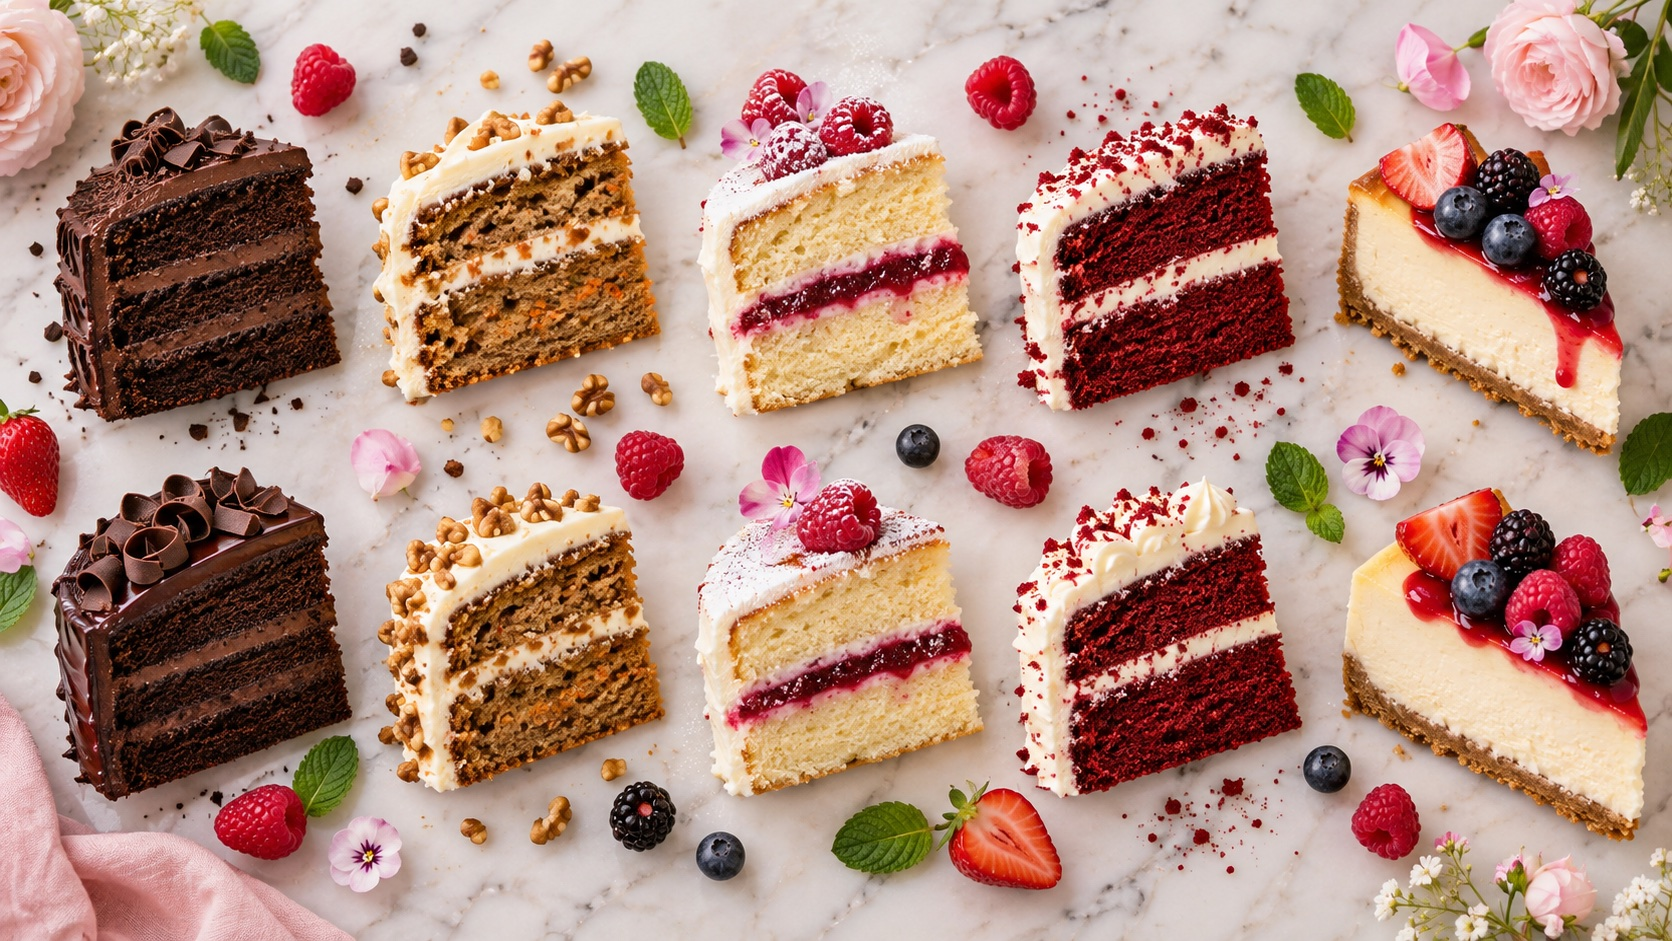
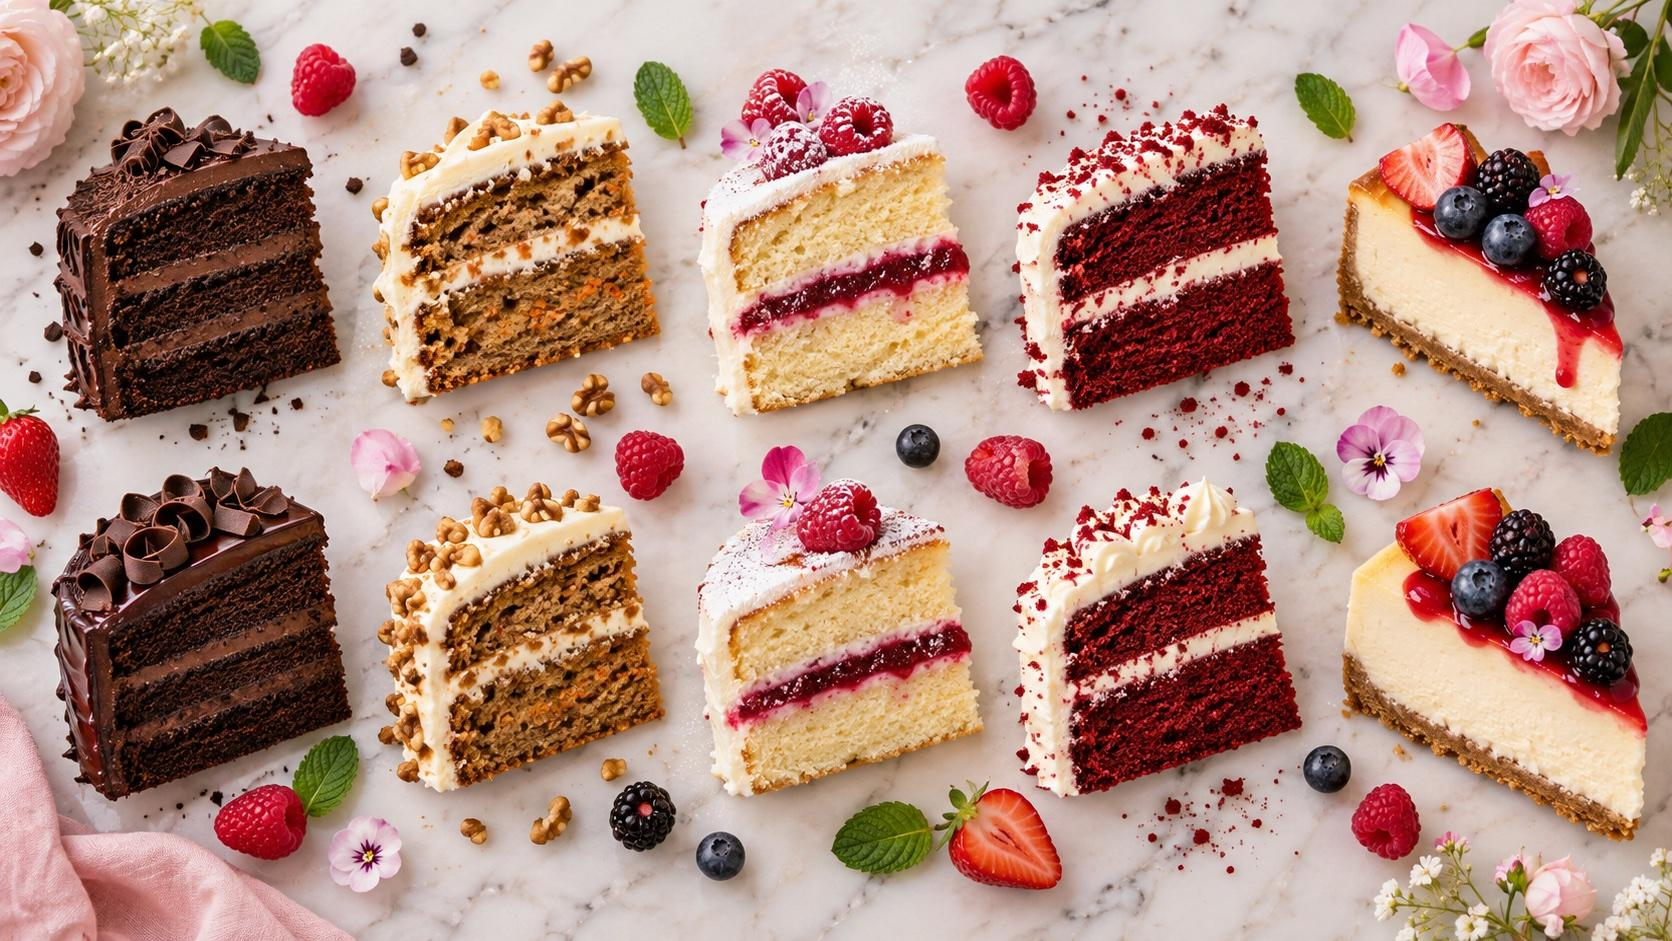
Vekst-tiltak: tillitsboks, kilde-til-konvertering-sporing, komprimerte bilder
- Alle 10 bakgrunnsbilder komprimert (JPEG kvalitet 75, optimize=True):
  4.5 MB -> 2.2 MB totalt (50% mindre), ingen synlig kvalitetsforskjell.
  Raskere lasting, spesielt pa mobil - google bruker ogsa sidehastighet
  som rangeringsfaktor.
- Ny tillitsboks ("★★★★★ X anmeldelser fra fornoyde kunder", ekte tall
  fra /api/reviews) pa forsiden (under hero-knappene) og ovoerst pa
  book.html (for selve skjemaet starter - IKKE en lenke inn i stegene,
  det oker frafall ifolge forskning pa checkout-friksjon).
- Kilde-til-konvertering: en forste-gangs-kilde (Instagram/Facebook/
  Google/direkte) huskes na i en cookie (kf_kilde, 30 dager) og lagres
  pa selve bestillingen/pameldingen nar den fullfores - bookings,
  course_registrations, tastings, christmas_orders, course_interests
  fikk alle en ny kilde-kolonne. Nytt GET /api/admin/konvertering-kilde
  + egen seksjon i Statistikk-panelet, sa Cecilie kan se hvilken kilde
  som FAKTISK gir kunder, ikke bare besok.

diff --git a/server.js b/server.js
@@ -55,6 +55,13 @@ function klassifiserEnhet(userAgent) {
   return /Mobi|Android|iPhone|iPad|iPod/i.test(userAgent || '') ? 'Mobil' : 'PC';
 }
 
+// Enkel cookie-leser - samme mønster som harIkkeSporKapsel, ingen ny avhengighet.
+function lesCookie(req, navn) {
+  const funnet = (req.headers.cookie || '').split(';').map(c => c.trim()).find(c => c.startsWith(navn + '='));
+  return funnet ? decodeURIComponent(funnet.slice(navn.length + 1)) : null;
+}
+const TRETTI_DAGER = 30 * 24 * 60 * 60;
+
 app.use((req, res, next) => {
   // Egen lenke for aa slaa det av paa en ny enhet, f.eks. mobilen
   if (req.query.ikkespor === '1') settIkkeSpor(res);
@@ -67,10 +74,17 @@ app.use((req, res, next) => {
        ON DUPLICATE KEY UPDATE count = count + 1`,
       [page, today]
     ).catch(() => {});
+    const kilde = klassifiserKilde(req.headers.referer);
     pool.query(
       `INSERT INTO page_events (page, kilde, enhet) VALUES (?, ?, ?)`,
-      [page, klassifiserKilde(req.headers.referer), klassifiserEnhet(req.headers['user-agent'])]
+      [page, kilde, klassifiserEnhet(req.headers['user-agent'])]
     ).catch(() => {});
+    // Forste-gangs-kilde huskes i en cookie sa den kan kobles til en eventuell
+    // bestilling/pamelding senere i besoket - IKKE overskriv hvis allerede satt.
+    if (!lesCookie(req, 'kf_kilde')) {
+      res.setHeader('Set-Cookie',
+        `kf_kilde=${encodeURIComponent(kilde)}; Max-Age=${TRETTI_DAGER}; Path=/; SameSite=Lax`);
+    }
   }
   next();
 });
@@ -314,14 +328,15 @@ app.post('/api/bookings', async (req, res) => {
       `INSERT INTO bookings
         (customer_id, booking_date, occasion, occasion_custom, guest_count,
          delivery_type, delivery_address, allergens, design_level,
-         deposit_amount, total_amount)
-       VALUES (?, ?, ?, ?, ?, ?, ?, ?, ?, ?, ?)`,
+         deposit_amount, total_amount, kilde)
+       VALUES (?, ?, ?, ?, ?, ?, ?, ?, ?, ?, ?, ?)`,
       [
         customer_id, booking_date, occasion, occasion_custom || null,
         guest_count || null, delivery_type || 'henting',
         delivery_address || null,
         allergens ? JSON.stringify(allergens) : null,
-        design_level || null, deposit_amount || null, total_amount || null
+        design_level || null, deposit_amount || null, total_amount || null,
+        lesCookie(req, 'kf_kilde')
       ]
     );
     const bookingId = result.insertId;
@@ -412,8 +427,8 @@ app.post('/api/course-interests', async (req, res) => {
   if (!course_id || !full_name || !phone) return res.status(400).json({ error: 'Navn og telefon er påkrevd' });
   try {
     await pool.query(
-      `INSERT INTO course_interests (course_id, full_name, phone) VALUES (?, ?, ?)`,
-      [course_id, full_name.trim(), phone.trim()]
+      `INSERT INTO course_interests (course_id, full_name, phone, kilde) VALUES (?, ?, ?, ?)`,
+      [course_id, full_name.trim(), phone.trim(), lesCookie(req, 'kf_kilde')]
     );
 
     try {
@@ -582,8 +597,8 @@ app.post('/api/course-registrations', async (req, res) => {
     if (!course.price) return res.status(400).json({ error: 'Kurset mangler pris - kontakt Kakefrue' });
 
     const [result] = await pool.query(
-      `INSERT INTO course_registrations (course_id, full_name, phone, email) VALUES (?, ?, ?, ?)`,
-      [course_id, full_name.trim(), phone.trim(), email.trim()]
+      `INSERT INTO course_registrations (course_id, full_name, phone, email, kilde) VALUES (?, ?, ?, ?, ?)`,
+      [course_id, full_name.trim(), phone.trim(), email.trim(), lesCookie(req, 'kf_kilde')]
     );
     await pool.query(`UPDATE courses SET current_participants = current_participants + 1 WHERE id = ?`, [course_id]);
     const reg = { id: result.insertId, phone: phone.trim() };
@@ -718,8 +733,8 @@ app.post('/api/tastings', async (req, res) => {
 
   try {
     const [result] = await pool.query(
-      `INSERT INTO tastings (full_name, phone, email, preferred_date, choice_1, choice_2, choice_3) VALUES (?, ?, ?, ?, ?, ?, ?)`,
-      [full_name.trim(), phone.trim(), email.trim(), preferred_date || null, choice_1 || null, choice_2 || null, choice_3 || null]
+      `INSERT INTO tastings (full_name, phone, email, preferred_date, choice_1, choice_2, choice_3, kilde) VALUES (?, ?, ?, ?, ?, ?, ?, ?)`,
+      [full_name.trim(), phone.trim(), email.trim(), preferred_date || null, choice_1 || null, choice_2 || null, choice_3 || null, lesCookie(req, 'kf_kilde')]
     );
     const tasting = { id: result.insertId, phone: phone.trim() };
     const belop = await provesmakingPris();
@@ -905,10 +920,10 @@ app.post('/api/christmas-orders', async (req, res) => {
     const { linjer, frakt, total } = await prisBestilling(products, delivery, delivery_cost);
     const leveringsmate = ['levering', 'marked'].includes(delivery) ? delivery : 'henting';
     const [result] = await pool.query(
-      `INSERT INTO christmas_orders (full_name, phone, email, delivery, address, products, note, delivery_cost, total_kr, event_id) VALUES (?, ?, ?, ?, ?, ?, ?, ?, ?, ?)`,
+      `INSERT INTO christmas_orders (full_name, phone, email, delivery, address, products, note, delivery_cost, total_kr, event_id, kilde) VALUES (?, ?, ?, ?, ?, ?, ?, ?, ?, ?, ?)`,
       [full_name.trim(), phone.trim(), email?.trim() || null, leveringsmate,
        leveringsmate === 'marked' ? hentested : (leveringsmate === 'levering' ? address?.trim() || null : null),
-       JSON.stringify(linjer), note?.trim() || null, frakt, total, eventId]
+       JSON.stringify(linjer), note?.trim() || null, frakt, total, eventId, lesCookie(req, 'kf_kilde')]
     );
     const o = { id: result.insertId, phone: phone.trim() };
 
@@ -1472,6 +1487,33 @@ app.get('/api/admin/pageviews/detaljer', requireAdmin, async (req, res) => {
     const [[{ total }]] = await pool.query(`SELECT COUNT(*) as total FROM page_events`);
     const [[{ forste }]] = await pool.query(`SELECT MIN(visited_at) as forste FROM page_events`);
     res.json({ total, forste, kilde, enhet, timer });
+  } catch (err) {
+    console.error(err);
+    res.status(500).json({ error: 'Serverfeil' });
+  }
+});
+
+// GET /api/admin/konvertering-kilde - hvor mange bestillinger/pameldinger/interesser
+// hver kilde faktisk ga (ikke bare hvor mange besok), pa tvers av alle fem typer.
+app.get('/api/admin/konvertering-kilde', requireAdmin, async (req, res) => {
+  try {
+    const tabeller = [
+      { tabell: 'bookings', navn: 'Kakebestillinger' },
+      { tabell: 'course_registrations', navn: 'Kurspåmeldinger' },
+      { tabell: 'tastings', navn: 'Prøvesmakinger' },
+      { tabell: 'christmas_orders', navn: 'Julebestillinger' },
+      { tabell: 'course_interests', navn: 'Kurs-interesser' }
+    ];
+    const perType = {};
+    const totalPerKilde = {};
+    for (const { tabell, navn } of tabeller) {
+      const [rows] = await pool.query(
+        `SELECT COALESCE(kilde, 'Ukjent (før sporing ble bygget)') as kilde, COUNT(*) as count FROM ${tabell} GROUP BY kilde ORDER BY count DESC`
+      );
+      perType[navn] = rows;
+      rows.forEach(r => { totalPerKilde[r.kilde] = (totalPerKilde[r.kilde] || 0) + parseInt(r.count); });
+    }
+    res.json({ perType, totalPerKilde });
   } catch (err) {
     console.error(err);
     res.status(500).json({ error: 'Serverfeil' });

diff --git a/public/js/admin.js b/public/js/admin.js
@@ -1163,6 +1163,12 @@ async function loadPageViews() {
         </div>
       </div>
 
+      <div style="background:var(--white);border-radius:var(--radius);box-shadow:var(--shadow);padding:28px;margin-bottom:24px;">
+        <h3 style="margin-bottom:4px;">Kilde → faktiske bestillinger</h3>
+        <p style="font-size:0.8rem;opacity:0.55;margin-bottom:20px;">Ikke bare hvor mange som besøker fra hver kilde, men hvor mange som faktisk bestiller/melder seg på/interesserer seg - på tvers av kakebestilling, kurs, prøvesmaking og julebestilling.</p>
+        <div id="chartKonvertering"></div>
+      </div>
+
       <div style="background:var(--white);border-radius:var(--radius);box-shadow:var(--shadow);padding:24px 28px;">
         <h3 style="margin-bottom:14px;">Dine egne besøk</h3>
         <p id="sporStatus" style="font-size:0.9rem;margin-bottom:16px;"></p>
@@ -1196,6 +1202,7 @@ async function loadPageViews() {
     }
     lastDagvisning();
     lastDetaljertStatistikk();
+    lastKonverteringKilde();
   } catch (e) { console.error(e); }
 }
 
@@ -1228,6 +1235,14 @@ async function lastDagvisning() {
     }
     el.style.opacity = '1';
   } catch (e) { el.innerHTML = '<p style="opacity:0.5;">Kunne ikke laste.</p>'; }
+}
+
+async function lastKonverteringKilde() {
+  try {
+    const d = await api('/api/admin/konvertering-kilde');
+    const total = Object.values(d.totalPerKilde).reduce((a, b) => a + b, 0) || 1;
+    renderPillList('chartKonvertering', d.totalPerKilde, total);
+  } catch (e) { console.error(e); }
 }
 
 async function lastDetaljertStatistikk() {

diff --git a/db.js b/db.js
@@ -261,6 +261,15 @@ async function initDB() {
       ) ENGINE=InnoDB DEFAULT CHARSET=utf8mb4
     `);
 
+    // Kilde-til-konvertering: hvilken kilde (Instagram/Facebook/Google/direkte) forste-gangs-
+    // besoket kom fra, husket i en cookie og lagret pa selve bestillingen/pameldingen nar den
+    // fullfores - sa Cecilie kan se hvilken kilde som FAKTISK gir kunder, ikke bare besok.
+    try { await conn.query(`ALTER TABLE bookings ADD COLUMN kilde VARCHAR(40) NULL`); } catch (e) {}
+    try { await conn.query(`ALTER TABLE course_registrations ADD COLUMN kilde VARCHAR(40) NULL`); } catch (e) {}
+    try { await conn.query(`ALTER TABLE tastings ADD COLUMN kilde VARCHAR(40) NULL`); } catch (e) {}
+    try { await conn.query(`ALTER TABLE christmas_orders ADD COLUMN kilde VARCHAR(40) NULL`); } catch (e) {}
+    try { await conn.query(`ALTER TABLE course_interests ADD COLUMN kilde VARCHAR(40) NULL`); } catch (e) {}
+
     await conn.query(`
       CREATE TABLE IF NOT EXISTS pricing (
         id INT PRIMARY KEY AUTO_INCREMENT,

diff --git a/public/book.html b/public/book.html
@@ -47,6 +47,10 @@
     <p>Fortell meg om anledningen, så finner vi kaken sammen.</p>
   </div>
 
+  <p id="trustBadge" class="hidden" style="text-align:center; margin:20px 0 0; font-size:0.9rem; opacity:0.75;">
+    <span style="color:#C4956A;">★★★★★</span> <span id="trustBadgeTekst"></span>
+  </p>
+
   <!-- Progress Bar -->
   <div class="booking-progress" id="bookingProgress">
     <div class="progress-inner">
@@ -593,6 +597,12 @@
 const hamburger = document.getElementById('hamburger');
 const mobileMenu = document.getElementById('mobileMenu');
 hamburger.addEventListener('click', () => mobileMenu.classList.toggle('open'));
+
+fetch('/api/reviews').then(r => r.json()).then(reviews => {
+  if (!reviews.length) return;
+  document.getElementById('trustBadgeTekst').textContent = `${reviews.length} anmeldelser fra fornøyde kunder`;
+  document.getElementById('trustBadge').classList.remove('hidden');
+}).catch(() => {});
 </script>
 </body>
 </html>

diff --git a/public/index.html b/public/index.html
@@ -53,6 +53,9 @@
         <a href="/book.html" class="btn btn-primary btn-lg">Book din kake</a>
         <a href="/om-kakefrue.html" class="btn btn-secondary btn-lg">Om Kakefrue</a>
       </div>
+      <p id="trustBadge" class="hidden" style="margin-top:18px; font-size:0.88rem; opacity:0.75;">
+        <span style="color:#C4956A;">★★★★★</span> <span id="trustBadgeTekst"></span>
+      </p>
     </div>
   </section>
 
@@ -392,6 +395,8 @@ function startMobilAnmeldelser() {
 // Load reviews from API
 fetch('/api/reviews').then(r => r.json()).then(reviews => {
   if (!reviews.length) return;
+  document.getElementById('trustBadgeTekst').textContent = `${reviews.length} anmeldelser fra fornøyde kunder`;
+  document.getElementById('trustBadge').classList.remove('hidden');
   const track = document.getElementById('reviewsTrack');
   const kort = r => `
     <div class="review-card">
